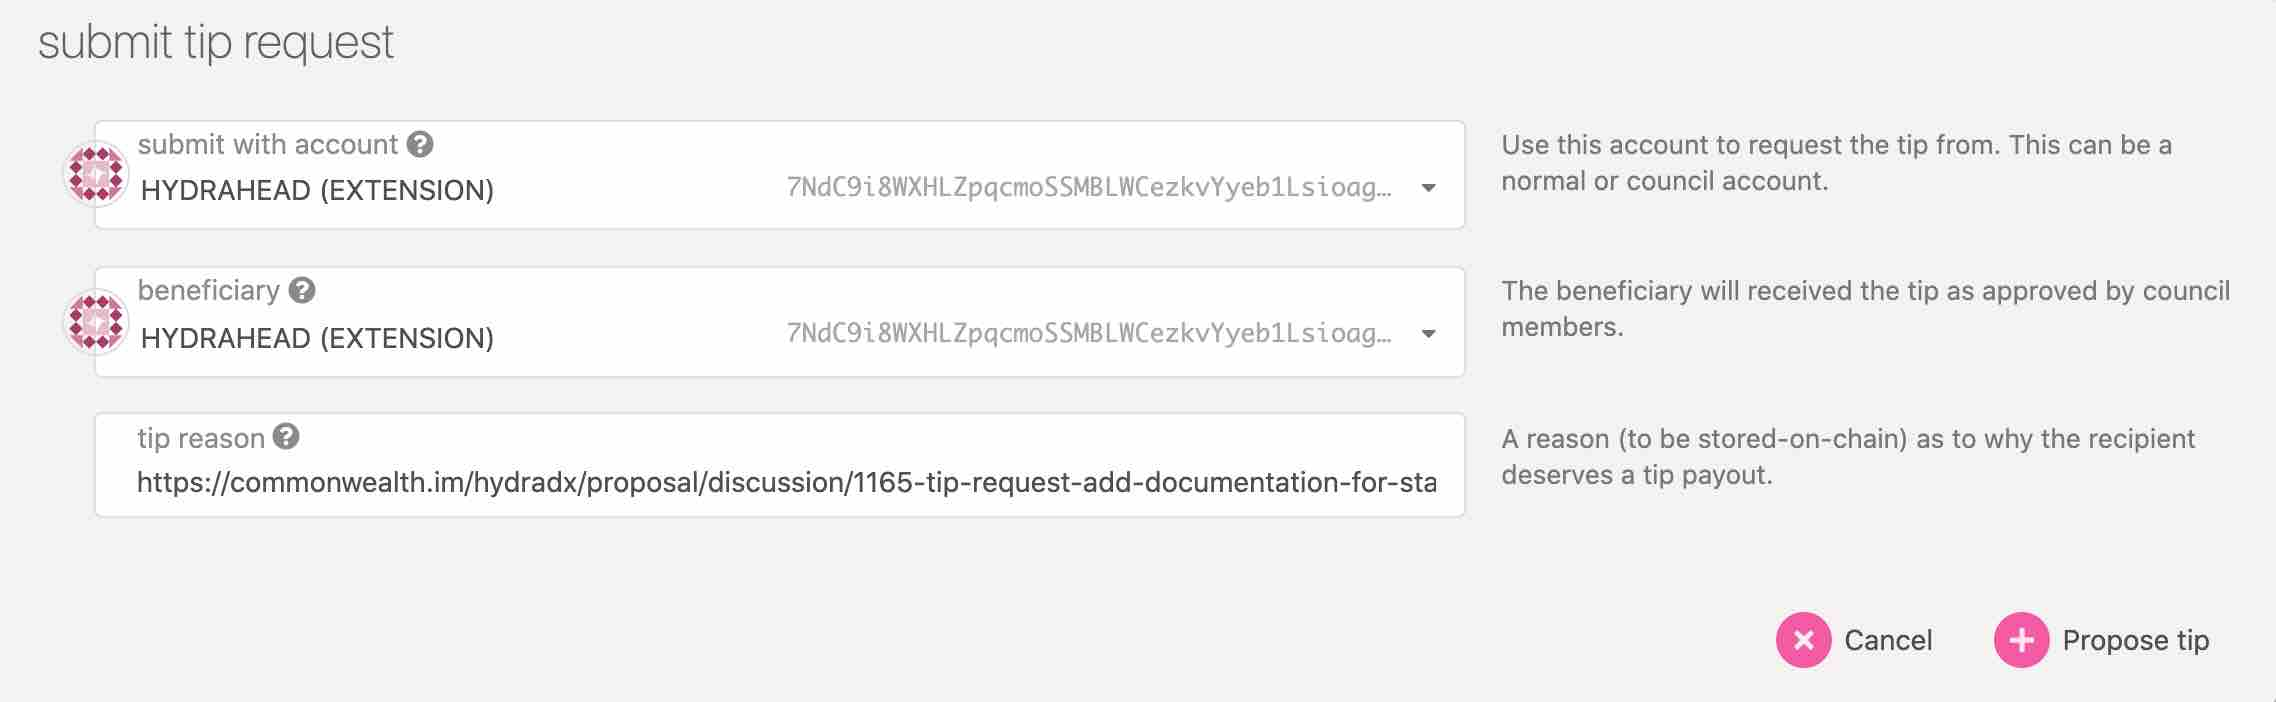
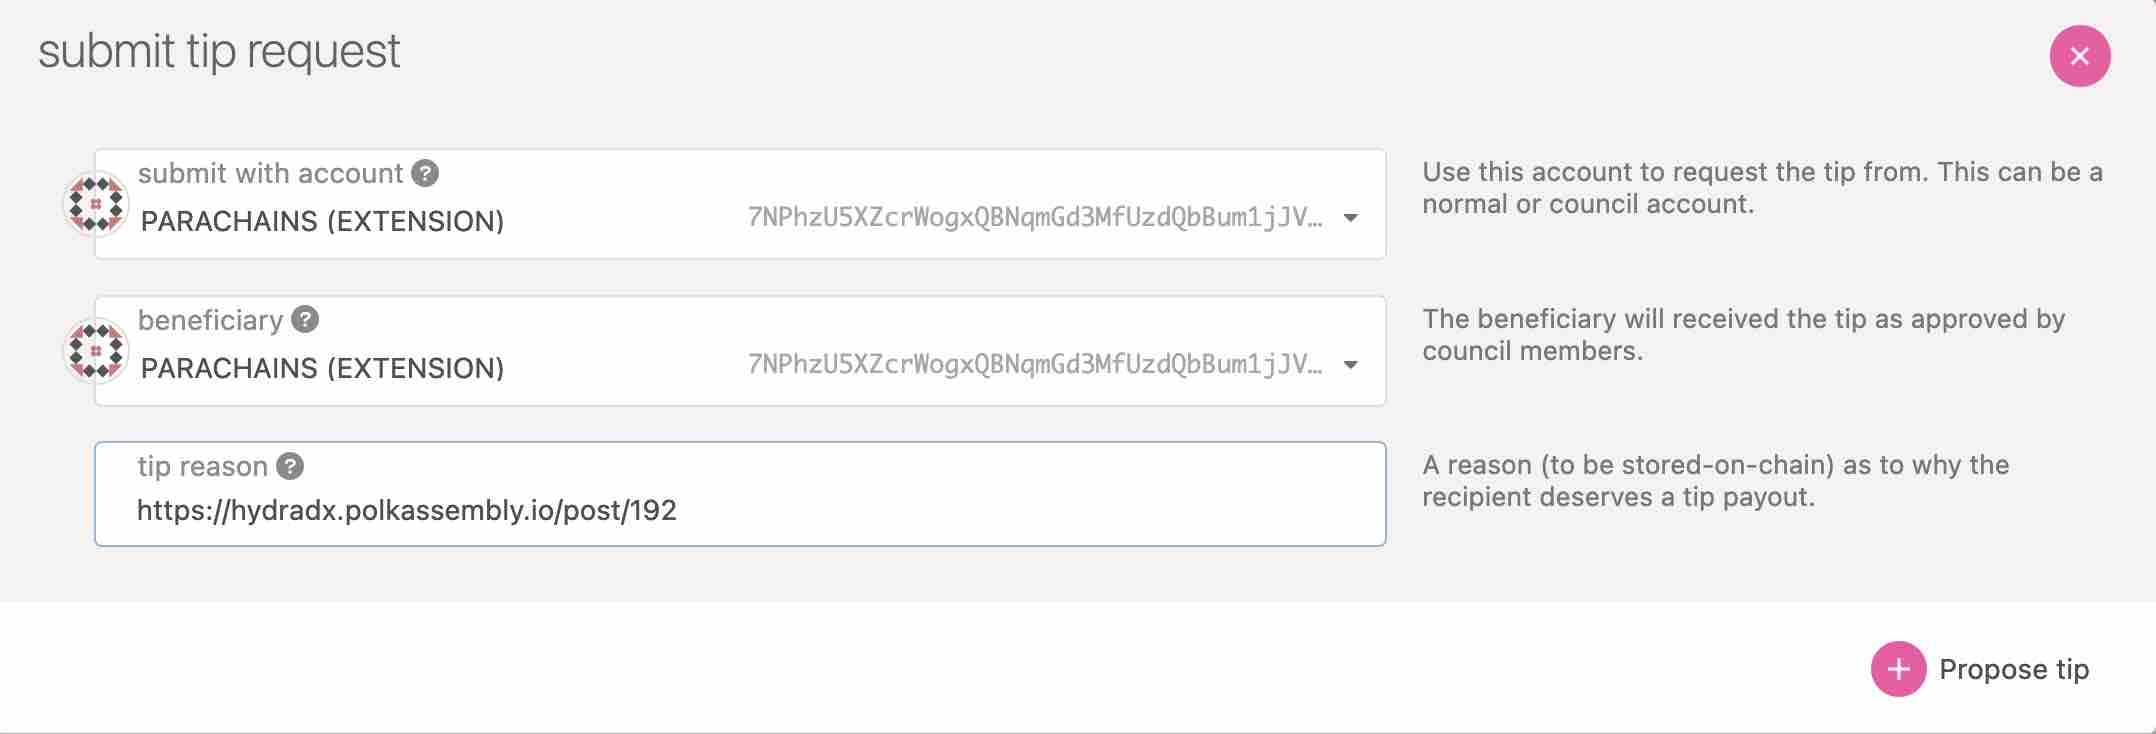
Fix tip docs

diff --git a/docs/tip_request.md b/docs/tip_request.md
@@ -5,21 +5,19 @@ title: Request a Treasury Tip
 
 import useBaseUrl from '@docusaurus/useBaseUrl';
 
-With the launch of the [HydraDX New Deal incentives program](#link-to-new-deal), community members can request HDX tips from the Treasury as a reward for their contributions. This guide walks you through the process of tip requests. You can find more information about the different types of activities that get rewarded in [this post](/new_deal).
+Community members can request HDX tips from the HydraDX Treasury as a reward for their contributions to the Protocol. This guide walks you through the process of tip requests. You can find more information about the different types of activities that get rewarded in [this post](/new_deal).
 
-The process of requesting a Treasury tip consists of two steps. In the first step, contributors need to publish their tip request in Commonwealth.im with a description of the contribution. As a second step, the Treasury tip request must be submitted on-chain using Polkadot/apps.
+The process of requesting a Treasury tip consists of two steps. In the first place, contributors need to [publish their tip request](#01-publish-tip-request) in Polkassembly with a description of the contribution. In the second place, the Treasury tip request must be [submitted on-chain](#02-submit-on-chain) using Polkadot/apps.
 
-## 01 Publish the Tip Request in Commonwealth.im {#01-publish-tip-request}
+## 01 Publish in Polkassembly {#01-publish-tip-request}
 
-To safeguard transparency, all Treasury tip requests must be published in a thread on the [HydraDX Commonwealth page](https://commonwealth.im/hydradx). Before opening a thread, you need to link your HydraDX wallet to Commonwealth.im: Click *Log in* (top right corner) and select *Connect with wallet > polkadot-js*.
+To safeguard transparency, all Treasury tip requests must be published as a Discussion thread on the [HydraDX Polkassembly page](https://hydradx.polkassembly.io/discussions). 
 
-<div style={{textAlign: 'center'}}>
-  <img alt="login" src={useBaseUrl('/tip-request/login.jpg')} width="300px" />
-</div>
+:::note
+Before opening a thread, make sure that Polkassembly is linked to your HDX wallet. To do so, click on Sign-Up (first-time use) or Login (repeated use) and select the option `with Web3 address`. After selecting your HDX address in the popup, you will be asked to sign the message using your wallet.
+:::
 
-After selecting your HDX address in the popup, you will be asked to sign the message using your wallet and to set a display name for this wallet.
-
-Once logged in, you need to create a new thread for your tip request. Navigate to the top-right part of the page and click on *New thread > New thread*. You can also directly use this link: https://commonwealth.im/hydradx/new/thread.
+Once logged in, you need to create a new Discussion thread for your tip request. You can do so following this link: https://hydradx.polkassembly.io/post/create
 
 You can use the title of the thread to indicate the subject (tip request) and the topic of the contribution. In the body of the thread, please provide the following information:
 
@@ -29,21 +27,21 @@ You can use the title of the thread to indicate the subject (tip request) and th
 * Time spent on the contribution (in hours)
 * If appropriate, provide more detailed information such as the relevance of the contribution to HydraDX and a link to the PR (in the case of technical contributions)
 
-For reference, you can take a look at [this example tip request](https://commonwealth.im/hydradx/proposal/discussion/1165-tip-request-add-documentation-for-staking).
+Before posting the thread, please make sure that the tab `Treasury` is selected to indicate the nature of the Discussion.
 
-After filling out the information, post the thread and it should become available in the general list.
+For reference, you can take a look at [this example tip request](https://hydradx.polkassembly.io/post/192).
 
-:::note
+<div style={{textAlign: 'center'}}>
+  <img alt="login" src={useBaseUrl('/tip-request/post-thread.jpg')} />
+</div>
 
-Nominators and validators who overbonded their HDX and got "stuck" can request a Treasury tip of 1 HDX which will allow them to unbond some of their tokens. If this applies to your case, please create a Commonwealth thread following [this example](https://commonwealth.im/hydradx/proposal/discussion/1166-tip-request-overbonded-staker).
+Click on `Create` to publish your Discussion thread. Immediately after that, it should become visible in the [list of discussions](https://hydradx.polkassembly.io/discussions).
 
-:::
-
-## 02 Submit the Tip Request On-Chain {#02-submit-on-chain}
+## 02 Submit On-Chain {#02-submit-on-chain}
 
 After publishing your Treasury tip request, you need to submit it on-chain. For this purpose, your wallet needs to hold a small amount of HDX to cover the transaction fees. If you currently do not hold any HDX, you do not need to execute this step - someone else will submit your tip request on-chain for you.
 
-Treasury tip requests can be submitted on-chain with Polkadot/apps using the following link: https://polkadot.js.org/apps/?rpc=wss%3A%2F%2Frpc-01.snakenet.hydradx.io#/treasury/tips.
+Treasury tip requests can be submitted on-chain with Polkadot/apps using the following link: https://polkadot.js.org/apps/?rpc=wss%3A%2F%2Frpc-01.hydradx.io#/treasury/tips
 
 To submit a new tip request, click on *Propose tip* and provide the following information:
 
